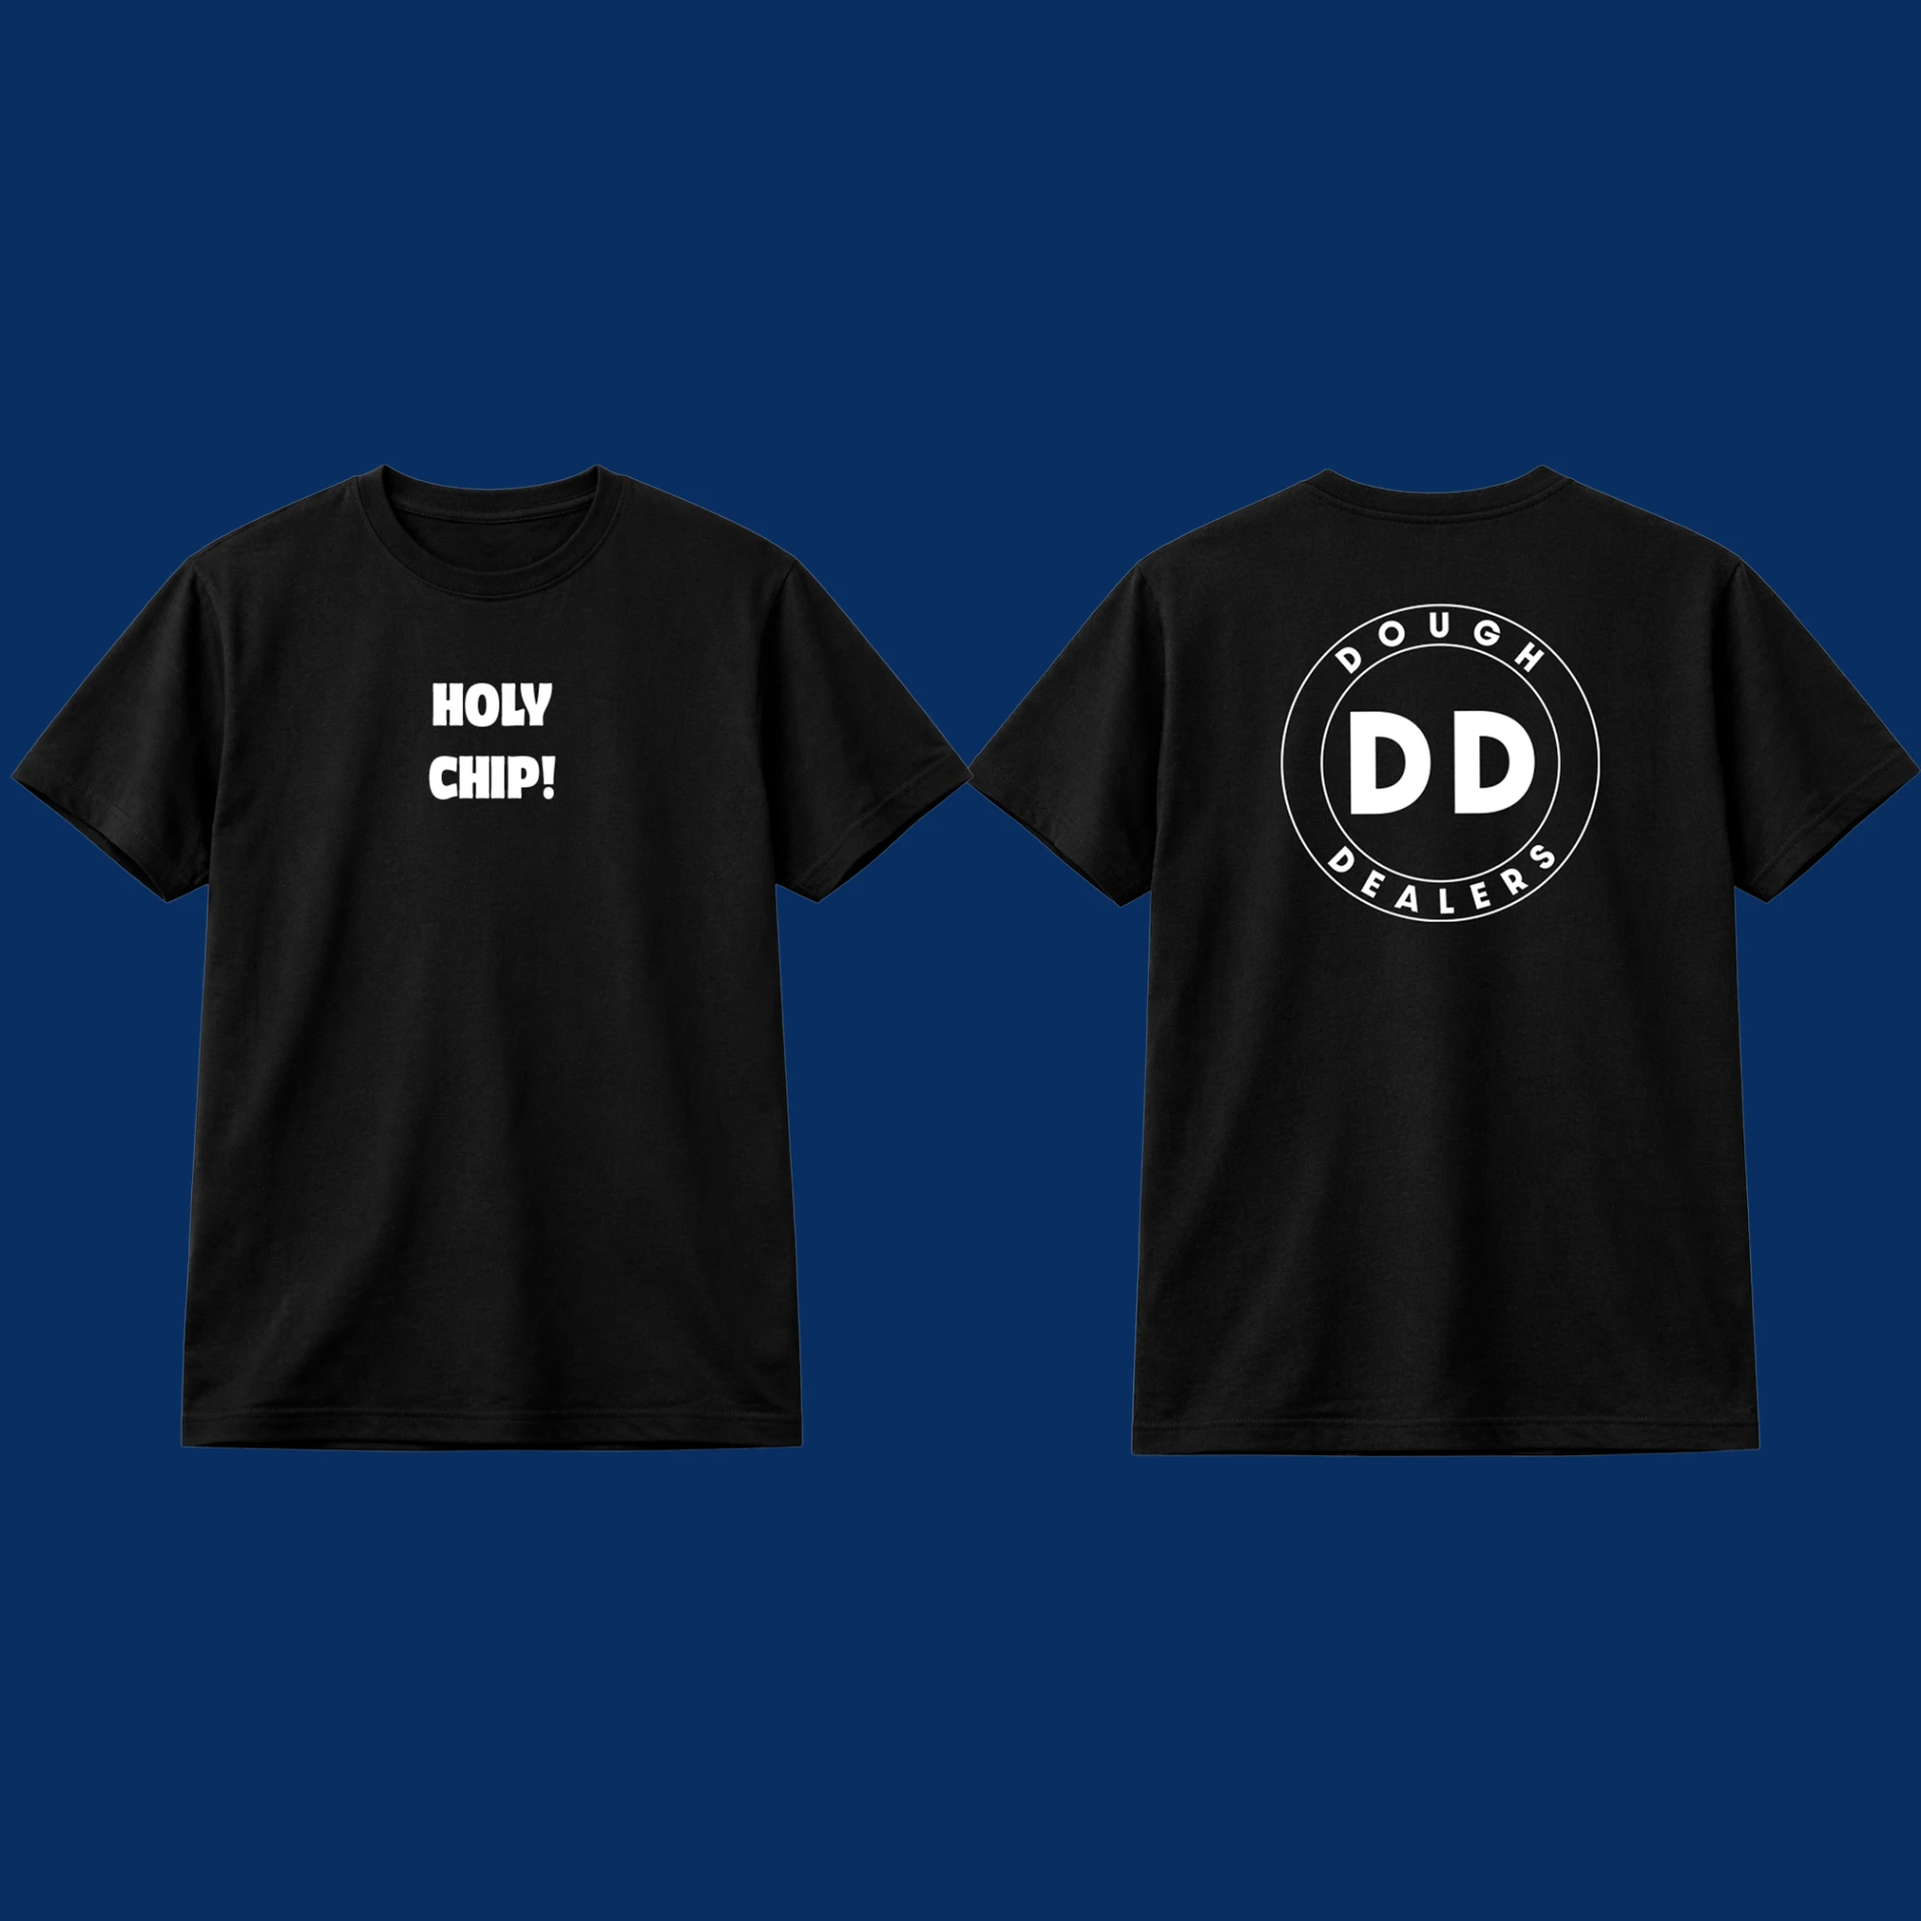
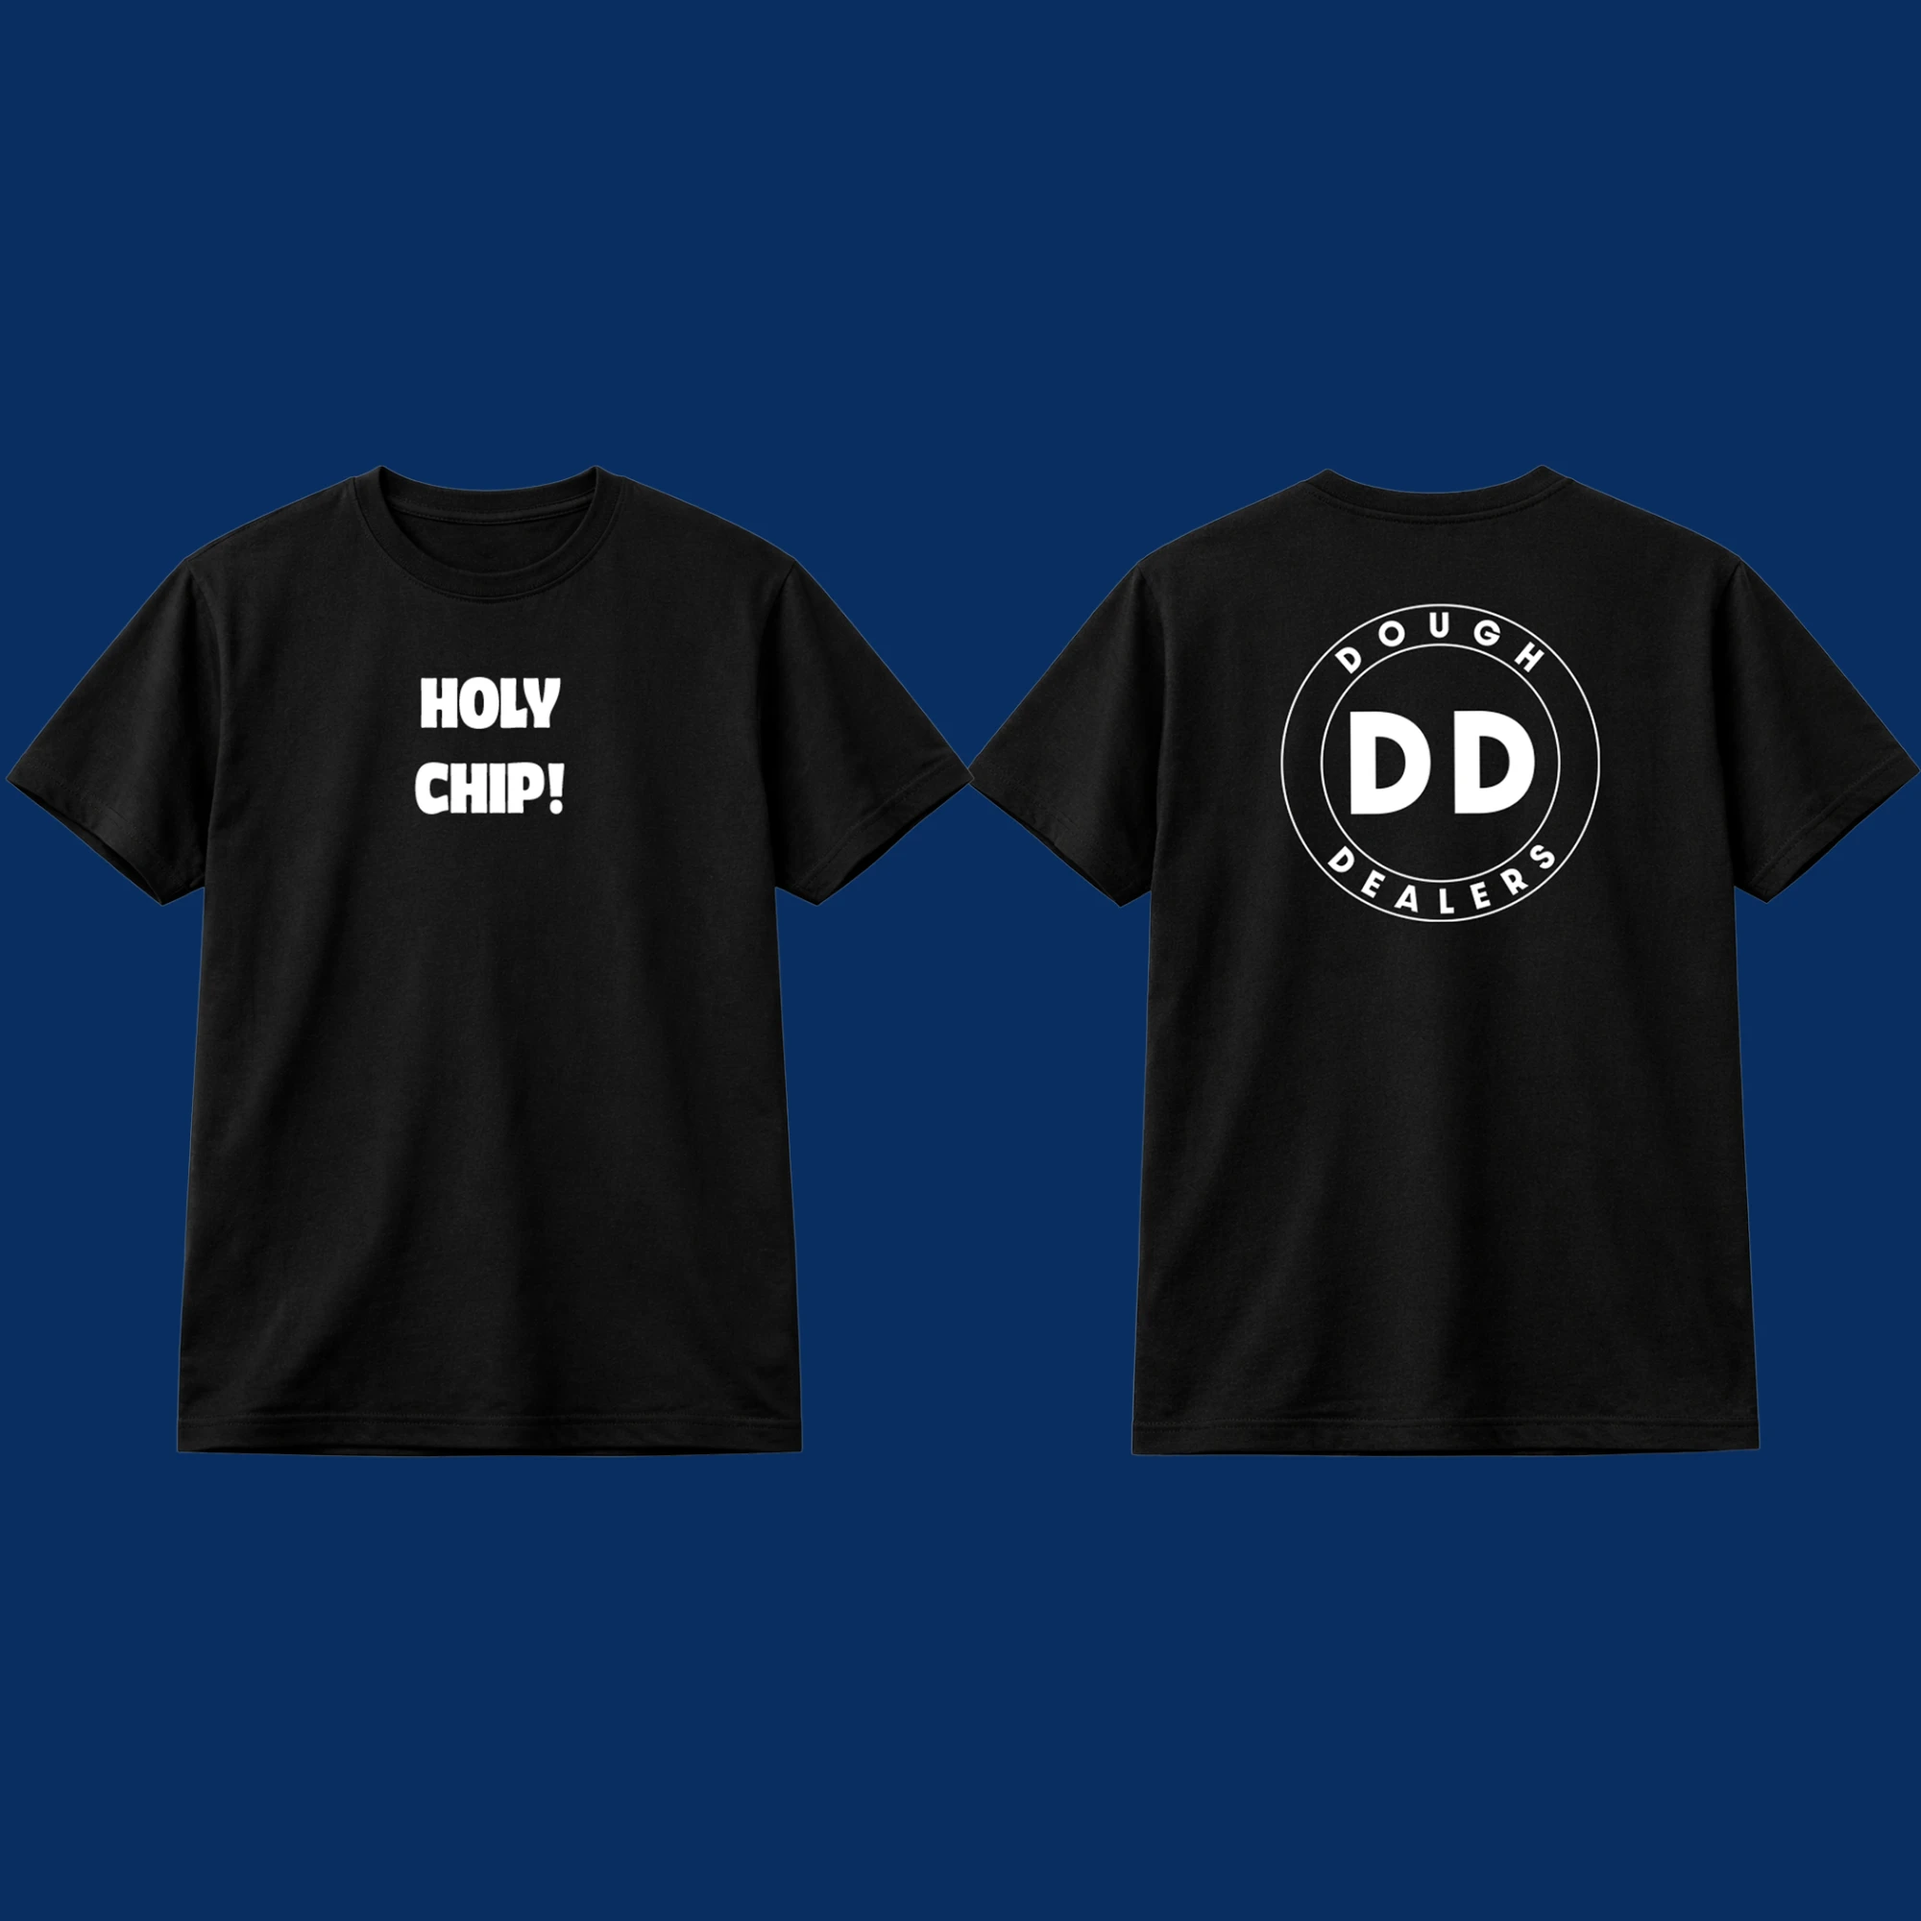
Update Im The Chip and Holy Chip mockups

diff --git a/src/App.jsx b/src/App.jsx
@@ -24,7 +24,7 @@ import merchGang from './assets/merch/DoughGang.webp'
 import merchChip from './assets/merch/ChipHappens.webp'
 import merchTalkChip from './assets/merch/ILoveItWhenYouTalkChip.webp'
 import merchBCE from './assets/merch/BCE.png'
-import merchImTheChip from './assets/merch/ImTheChip.png'
+import merchImTheChip from './assets/merch/ImTheChip.webp'
 import merchChippinMe from './assets/merch/YouGotToBeChippinMe.png'
 import merchStraightChipping from './assets/merch/StraightChippin.webp'
 import merchShowMeChips from './assets/merch/ShowMeYourChips.webp'
